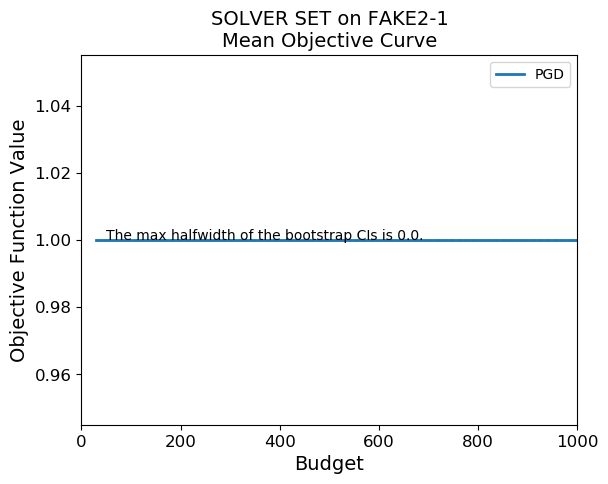
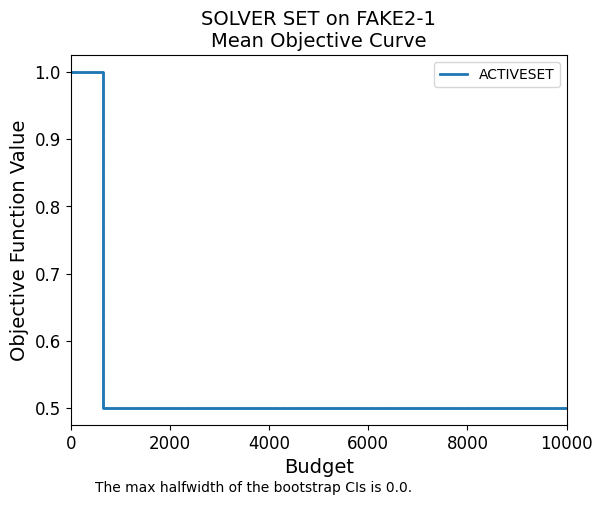
debugging active set

Changed region(s): [[0.0, 0.0, 0.9867, 0.9917]]

diff --git a/solvers/active_set.py b/solvers/active_set.py
@@ -49,11 +49,11 @@ class ACTIVESET(Solver):
     --------
     base.Solver
     """
-    def __init__(self, name="PGD", fixed_factors={}):
+    def __init__(self, name="ACTIVESET", fixed_factors={}):
         self.name = name
         self.objective_type = "single"
-        self.constraint_type = "box"
-        self.variable_type = "deterministic"
+        self.constraint_type = "deterministic"
+        self.variable_type = "continuous"
         self.gradient_needed = False
         self.specifications = {
             "crn_across_solns": {
@@ -169,19 +169,25 @@ class ACTIVESET(Solver):
         ub_inf_idx = np.where(~np.isinf(upper_bound))[0]
         lb_inf_idx = np.where(~np.isinf(lower_bound))[0]
 
-        if (Ce is not None) and (de is not None):
+
+        if (Ce is not None) and (de is not None) and (Ci is not None) and (di is not None):
+            C = np.vstack((Ce,  Ci))
+            d = np.vstack((de, di))
+        elif (Ce is not None) and (de is not None):
             C = Ce
             d = de
-        elif (Ci is not None) and (di is not None):
-            C = np.vstack((Ci))
-            d = np.vstack((di))
-        elif len(ub_inf_idx) > 0:
-            C = np.vstack((np.identity(upper_bound.shape[0])))
-            d = np.vstack((upper_bound[np.newaxis].T))
-        elif len(lb_inf_idx) > 0:
-            C = np.vstack((-np.identity(lower_bound.shape[0])))
-            d = np.vstack((lower_bound[np.newaxis].T))
+        else:
+            C = Ci
+            d = di
+
+        if len(ub_inf_idx) > 0:
+            C = np.vstack((C, np.identity(upper_bound.shape[0])))
+            d = np.vstack((d, upper_bound[np.newaxis].T))
+        if len(lb_inf_idx) > 0:
+            C = np.vstack((C, -np.identity(lower_bound.shape[0])))
+            d = np.vstack((d, lower_bound[np.newaxis].T))
         
+
         # Number of equality constraints.
         if (Ce is not None) and (de is not None):
             neq = len(de)
@@ -205,15 +211,14 @@ class ACTIVESET(Solver):
         intermediate_budgets.append(expended_budget)
 
         # Active constraint index vector
-        acidx = []
+        acidx = set()
         # Initialize the active set to be the set of indices of the tight constraints.
         cx = np.dot(C, new_x)
         for j in range(cx.shape[0]):
             if j < neq or np.isclose(cx[j], d[j], rtol=0, atol= tol):
-                acidx.append(j)
+                acidx.add(j)
 
         while expended_budget < problem.factors["budget"]:
-            print('new_x', new_x)
             new_x = new_solution.x
             # Check variable bounds.
             forward = [int(new_x[i] == lower_bound[i]) for i in range(problem.dim)]
@@ -240,21 +245,23 @@ class ACTIVESET(Solver):
             # Find the search direction and Lagrange multipliers of the direction-finding problem.
             dir, lmbd, = self.compute_search_direction(acidx, grad, problem, C)
             print('dir', dir)
+            print('lmbd', lmbd)
 
             # If the optimal search direction is 0
-            if np.all(dir == 0):
+            print('dir norm',np.linalg.norm(dir) )
+            if (np.isclose(np.linalg.norm(dir), 0, rtol=0, atol=tol)):
                 # Terminate if Lagrange multipliers of the inequality constraints in the active set are all nonnegative.
+                print('ineq lmbd', lmbd[neq:])
                 if np.all(lmbd[neq:] >= 0):
                     break
-                # Otherwise, drop one of the inequality constraints in the active set with negative Lagrange multiplier
+                # Otherwise, drop one of the inequality constraints in the active set with negative Lagrange multiplier.
                 else:
-                    print('argmin', np.argmin(lmbd[neq:][lmbd[neq:] < 0]))
-                    q = neq - 1 + np.argmin(lmbd[neq:][lmbd[neq:] < 0]) # TODO: test this line!
-                    print('q', q)
+                    q = neq + 1 + np.argmin(lmbd[neq:][lmbd[neq:] < 0])
+                    print('dropped constraint', q)
                     acidx.remove(q)
                     candidate_x = new_x
             else:
-                idx = list(set(np.arange(C.shape[0])) - set(acidx))
+                idx = list(set(np.arange(C.shape[0])) - set(acidx)) # Constraints that are not in the active set.
                 # If all constraints are feasible.
                 if np.all(C[idx,:] @ dir <= 0):
                     # Line search to determine a step_size.
@@ -268,38 +275,49 @@ class ACTIVESET(Solver):
                 else:
                     # Get all indices not in the active set such that Ai^Td>0
                     r_idx = list(set(idx).intersection(set((C @ dir > 0).nonzero()[0])))
-                    print('ridx', r_idx)
+                    print('r_idx', r_idx)
                     # Compute the ratio test
                     ra = d[r_idx,:].flatten() - C[r_idx, :] @ new_x
                     ra_d = C[r_idx, :] @ dir
 
-                    s_star = float("inf")
+                    s_star = 1
                     q = -1
 
                     for i in range(len(ra)):
                         if ra_d[i] > 0:
                             s = ra[i]/ra_d[i]
+                            print('s', s)
                             if s < s_star:
+                                print('here')
                                 s_star = s
-                                q = i
-                    print('ra', ra)
-                    print('ra_d', ra_d)
-                    print(s_star)
-                    # Line search to determine a step_size.
-                    step_size, expended_budget = self.line_search(problem, expended_budget, r, grad, new_solution, s_star, -grad, alpha, beta)
+                                q = r_idx[i]
+                    print('s_star', s_star)
+                    # If there is no blocking constraint
+                    if q == -1:
+                        # Line search to determine a step_size.
+                        step_size, expended_budget = self.line_search(problem, expended_budget, r, grad, new_solution, s_star, dir, alpha, beta)
+                    else:
+                        # Line search to determine a step_size.
+                        step_size, expended_budget = self.line_search(problem, expended_budget, r, grad, new_solution, 1, dir, alpha, beta)
+                        print('step size', step_size)
+                        print('blocking constraint', q)
+                        # Add blocking constraint to the active set.
+                        acidx.add(q)
+
                     # Calculate candidate_x.
                     candidate_x = new_x + step_size * dir
                     # Update maximum step size for the next iteration.
                     max_step = step_size
-                    # Add a blocking constraint to the active set.
-                    acidx.append(q)
+
         
             # Calculate the candidate solution.
-            candidate_solution = self.create_new_solution(tuple(candidate_x), problem)
+            new_solution = self.create_new_solution(tuple(candidate_x), problem)
 
             # Use r simulated observations to estimate the objective value.
-            problem.simulate(candidate_solution, r)
+            problem.simulate(new_solution, r)
             expended_budget += r
+            print('acidx', acidx)
+            print('newx',new_solution.x)
 
             # Append new solution.
             if (problem.minmax[0] * new_solution.objectives_mean > problem.minmax[0] * best_solution.objectives_mean):
@@ -335,9 +353,11 @@ class ACTIVESET(Solver):
         # Define variables.
         d = cp.Variable(problem.dim)
 
+        print('active set C ', C[list(acidx), :])
+        print('grad', grad)
         # Define constraints.
-        constraints = [C[acidx, :] @ d == 0,
-                      cp.norm(d) <= 1]
+        constraints = [C[list(acidx), :] @ d == 0,
+                      cp.norm(d, 1) <= 1]
         
         # Define objective.
         obj = cp.Minimize(grad @ d)
@@ -346,9 +366,6 @@ class ACTIVESET(Solver):
 
         # Get Lagrange multipliers
         lmbd = prob.constraints[0].dual_value
-
-        print('dir', d.value)
-        print('lmbd', lmbd)
 
         return d.value, lmbd
 
@@ -485,9 +502,9 @@ class ACTIVESET(Solver):
                 break
             step_size *= beta
             count +=1
-        # Enlarge the step size if satisfying the sufficient decrease on the first try.
-        if count == 1:
-            step_size /= beta
+        # # Enlarge the step size if satisfying the sufficient decrease on the first try.
+        # if count == 1:
+        #     step_size /= beta
         return step_size, expended_budget
 
     def find_feasible_initial(self, problem, Ae, Ai, be, bi, tol):
@@ -548,7 +565,6 @@ class ACTIVESET(Solver):
         if model.status not in [cp.OPTIMAL, cp.OPTIMAL_INACCURATE] :
             raise ValueError("Could not find feasible x0")
         x0 = x.value
-        print('Initial feasible pt', x0)
         if not self._feasible(x0, problem, tol):
             raise ValueError("Could not find feasible x0")
 

diff --git a/solvers/pgd.py b/solvers/pgd.py
@@ -52,8 +52,8 @@ class PGD(Solver):
     def __init__(self, name="PGD", fixed_factors={}):
         self.name = name
         self.objective_type = "single"
-        self.constraint_type = "box"
-        self.variable_type = "deterministic"
+        self.constraint_type = "deterministic"
+        self.variable_type = "continuous"
         self.gradient_needed = False
         self.specifications = {
             "crn_across_solns": {
@@ -203,7 +203,6 @@ class PGD(Solver):
                     expended_budget += (2 * problem.dim - np.sum(BdsCheck != 0)) * r
                     # Update r after each iteration.
                     r = int(self.factors["lambda"] * r)
-            print('grad', grad)
             # Line search to determine a step_size.
             step_size, expended_budget = self.line_search(problem, expended_budget, r, grad, new_solution, max_step, -grad, alpha, beta)
             # Get a temp solution.
@@ -510,7 +509,6 @@ class PGD(Solver):
         if model.status not in [cp.OPTIMAL, cp.OPTIMAL_INACCURATE] :
             raise ValueError("Could not find feasible x0")
         x0 = x.value
-        print('Initial feasible pt', x0)
         if not self._feasible(x0, problem, tol):
             raise ValueError("Could not find feasible x0")
 

diff --git a/models/fake2.py b/models/fake2.py
@@ -177,7 +177,7 @@ class FakeProblem2(Problem):
             "budget": {
                 "description": "Max # of replications for a solver to take.",
                 "datatype": int,
-                "default": 1000
+                "default": 10000
             }
         }
         self.check_factor_list = {
